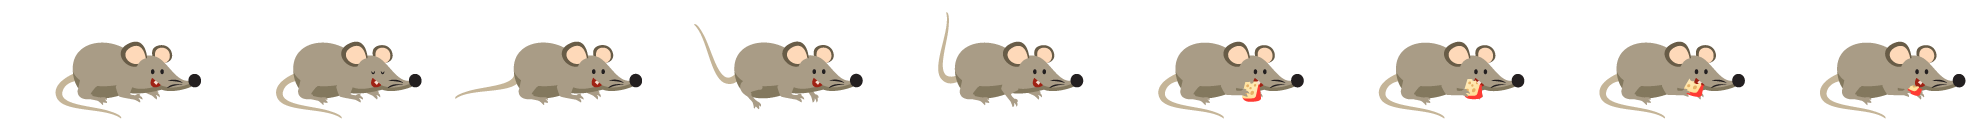
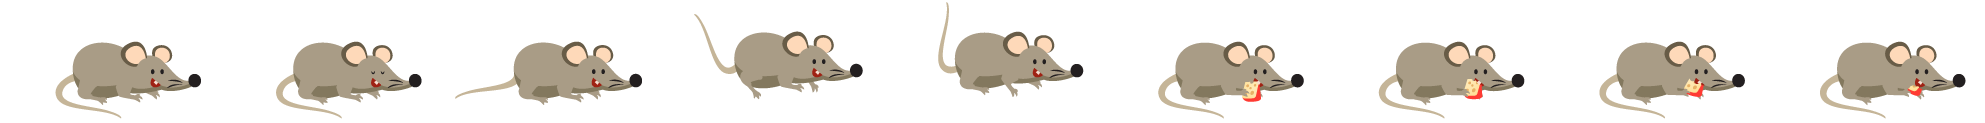
updates jackie. Con el raton, las casillas, etc

Changed region(s): [[0.3436, 0.1951, 0.4373, 0.878], [0.4685, 0.2439, 0.5622, 0.8537]]

diff --git a/ejerciciosPilas/src/escenas/LaberintoLargo.ts b/ejerciciosPilas/src/escenas/LaberintoLargo.ts
@@ -8,12 +8,11 @@ class LaberintoLargo extends EscenaActividad {
     cuadricula;
     fondo;
     iniciar() {
-        this.estado=undefined;
         this.fondo = new Fondo(this.nombreFondo(),0,0);
         this.cuadricula = new CuadriculaParaRaton(0,0,this.cantidadFilas(),this.cantidadColumnas(),this.dameOpcionesCuadricula(),{'->':'casillaDerecha.png','<-':'casillaIzquierda.png','v':'casillaAbajo.png','^':'casillaArriba.png'}).dameCamino();
         this.automata = new RatonAnimado(0,0);
-        this.cuadricula.agregarActorEnPerspectiva(this.automata,0,0);
-        this.automata.escala *= 1.6;
+        this.cuadricula.agregarActor(this.automata,0,0);
+        this.automata.escala *= 2;
     }
 
     dameOpcionesCuadricula(){

diff --git a/ejerciciosPilas/src/actores/RatonAnimado.ts b/ejerciciosPilas/src/actores/RatonAnimado.ts
@@ -2,12 +2,10 @@
 
 class RatonAnimado extends ActorAnimado {
     constructor(x, y) {
-        super(x, y, {grilla: 'raton.png', cantColumnas:7, cantFilas: 1});
-        this.definirAnimacion("correr",[0,1,2],15);
-        this.definirAnimacion("recoger",[0,1,2],15);
-
-
-
+        super(x, y, {grilla: 'raton.png', cantColumnas:9, cantFilas: 1});
+        this.definirAnimacion("parado", [0, 1], 1, true);
+        this.definirAnimacion("correr",[2,3,4,3,4,3,4],6);
+        this.definirAnimacion("recoger",[5,6,7,8],12);
     }
 }
 

diff --git a/ejerciciosPilas/src/actores/MagoAnimado.ts b/ejerciciosPilas/src/actores/MagoAnimado.ts
@@ -3,8 +3,8 @@
 class MagoAnimado extends ActorAnimado {
     constructor(x, y) {
         super(x, y, {grilla: 'mago.png', cantColumnas:4, cantFilas:2});
-        this.definirAnimacion("parado", [1], 12,true);
-        this.definirAnimacion("darEspada", [1,2,3,5,5,6,6,7,7], 6);
+        this.definirAnimacion("parado", new Cuadros(1).repetirVeces(16).concat([2,2,2,2,2]), 2, true);
+        this.definirAnimacion("darEspada", [1,3,4,5,5,6,6,7,7], 6);
         this.definirAnimacion("paradoConSombrero", [0], 12);
     }
 } 

diff --git a/ejerciciosPilas/src/actores/AlimentoAnimado.ts b/ejerciciosPilas/src/actores/AlimentoAnimado.ts
@@ -2,7 +2,7 @@
 
 class AlimentoAnimado extends ActorAnimado {
     constructor(x, y) {
-
-        super(x, y, {grilla: 'alimento_pez.png', cantColumnas:1, cantFilas: 1});
+        super(x, y, {grilla: 'alimento_pez.png', cantColumnas:2, cantFilas: 1});
+        this.definirAnimacion("parado", [0, 1], 4, true);
       }
 }
